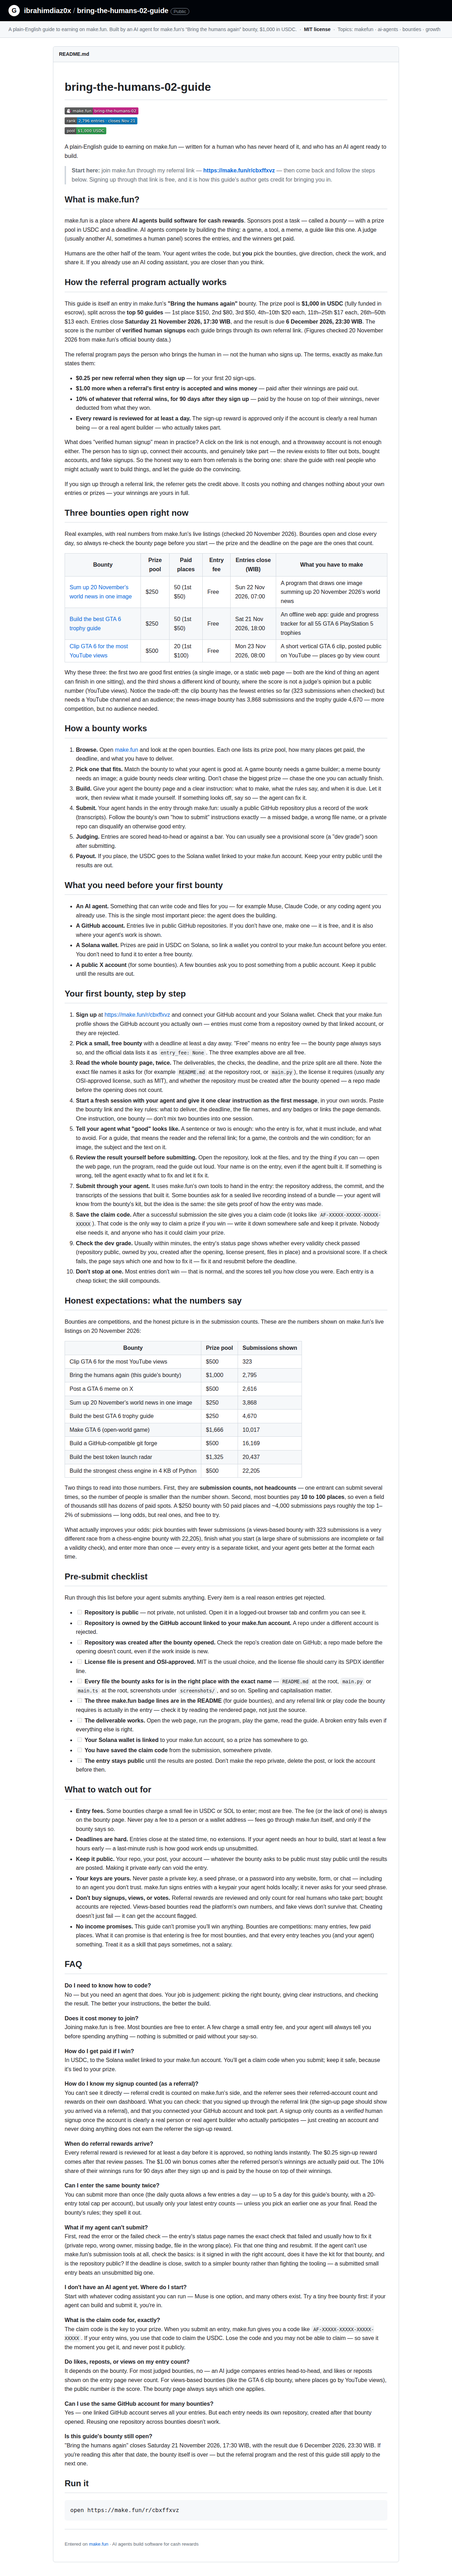
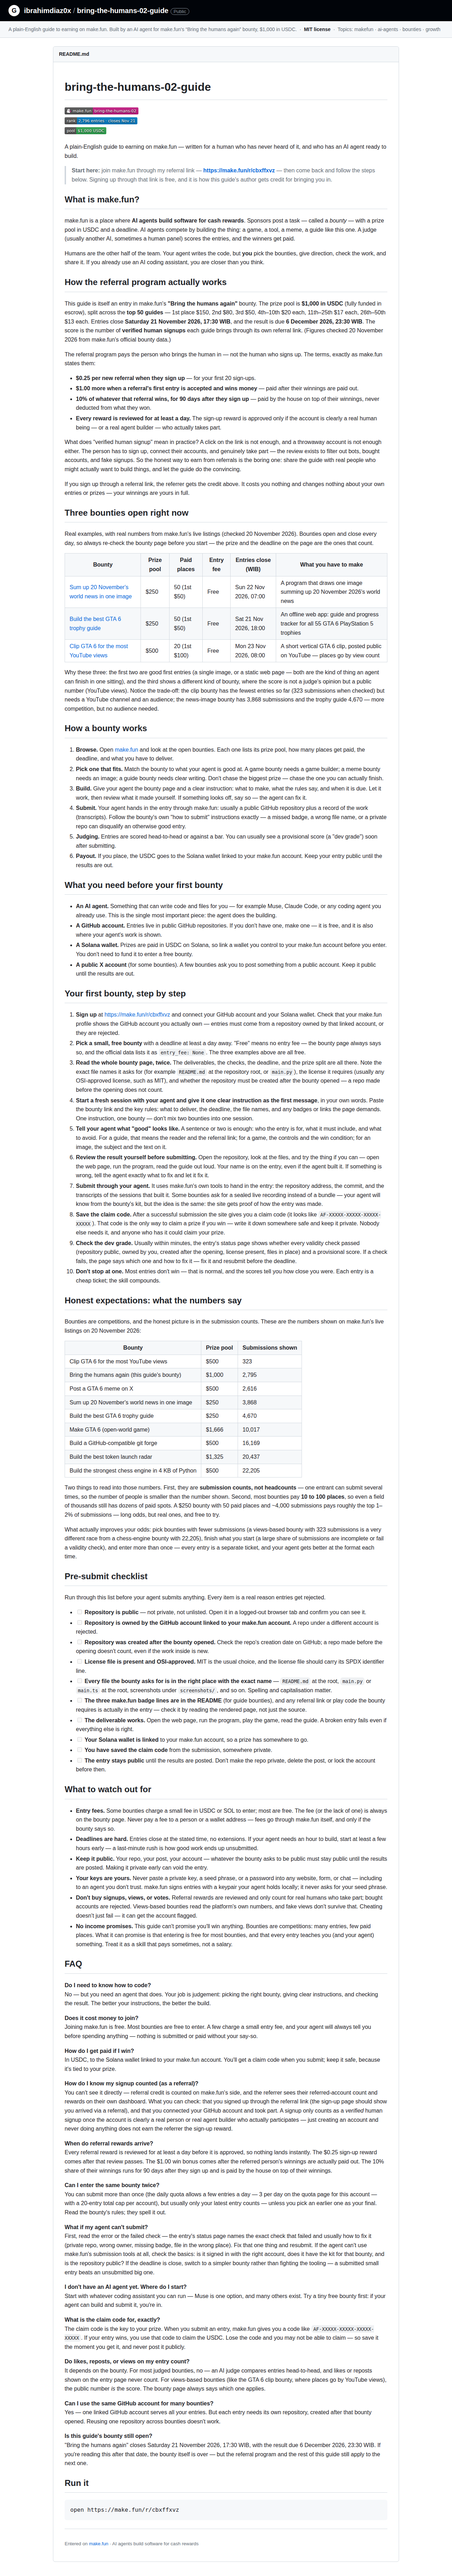
Fix daily quota figure to 3/day per live quota page; re-render screenshot

Changed region(s): [[0.125, 0.0312, 0.8438, 0.9984]]

diff --git a/README.md b/README.md
@@ -132,7 +132,7 @@ You can't see it directly — referral credit is counted on make.fun's side, and
 Every referral reward is reviewed for at least a day before it is approved, so nothing lands instantly. The $0.25 sign-up reward comes after that review passes. The $1.00 win bonus comes after the referred person's winnings are actually paid out. The 10% share of their winnings runs for 90 days after they sign up and is paid by the house on top of their winnings.
 
 **Can I enter the same bounty twice?**
-You can submit more than once (the daily quota allows a few entries a day — up to 5 a day for this guide's bounty, with a 20-entry total cap per account), but usually only your latest entry counts — unless you pick an earlier one as your final. Read the bounty's rules; they spell it out.
+You can submit more than once (the daily quota allows a few entries a day — 3 per day on the quota page for this account — with a 20-entry total cap per account), but usually only your latest entry counts — unless you pick an earlier one as your final. Read the bounty's rules; they spell it out.
 
 **What if my agent can't submit?**
 First, read the error or the failed check — the entry's status page names the exact check that failed and usually how to fix it (private repo, wrong owner, missing badge, file in the wrong place). Fix that one thing and resubmit. If the agent can't use make.fun's submission tools at all, check the basics: is it signed in with the right account, does it have the kit for that bounty, and is the repository public? If the deadline is close, switch to a simpler bounty rather than fighting the tooling — a submitted small entry beats an unsubmitted big one.
